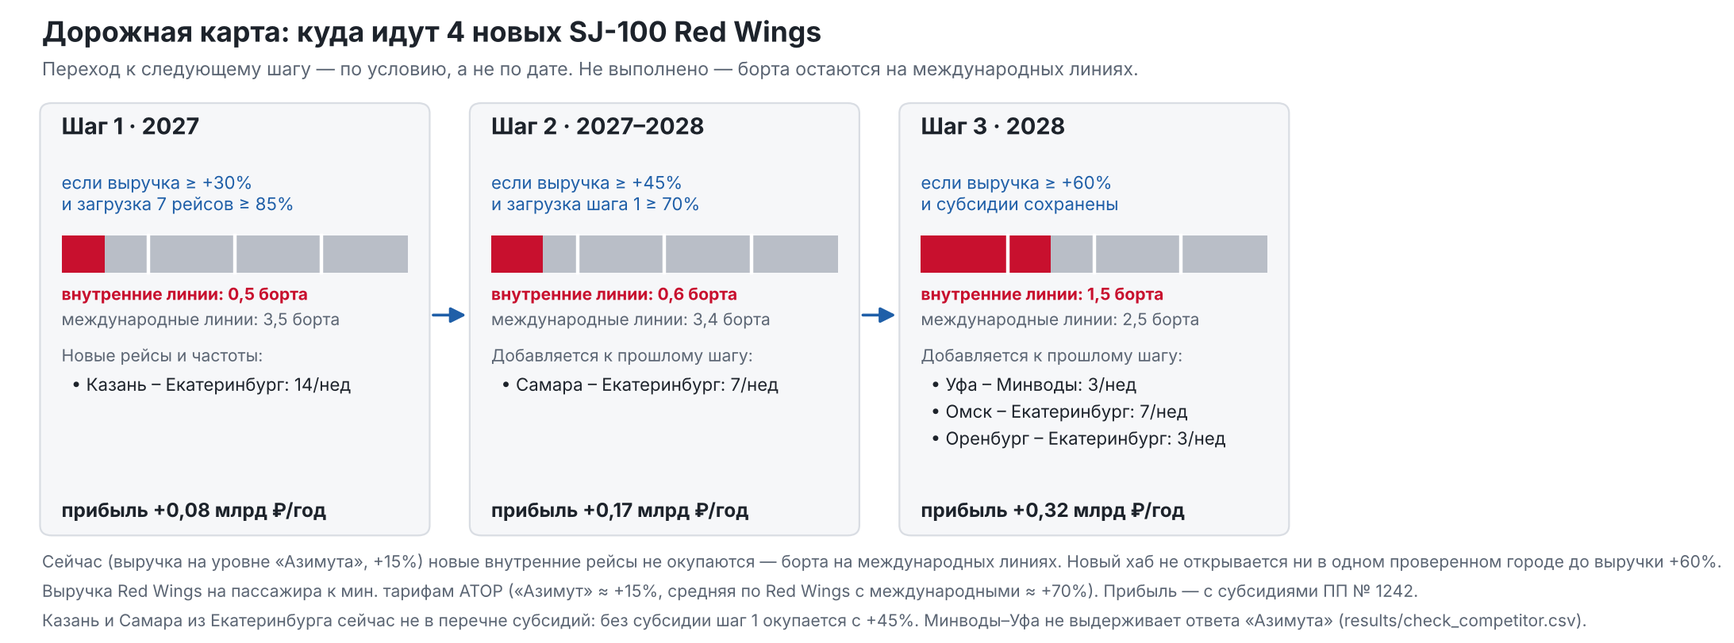
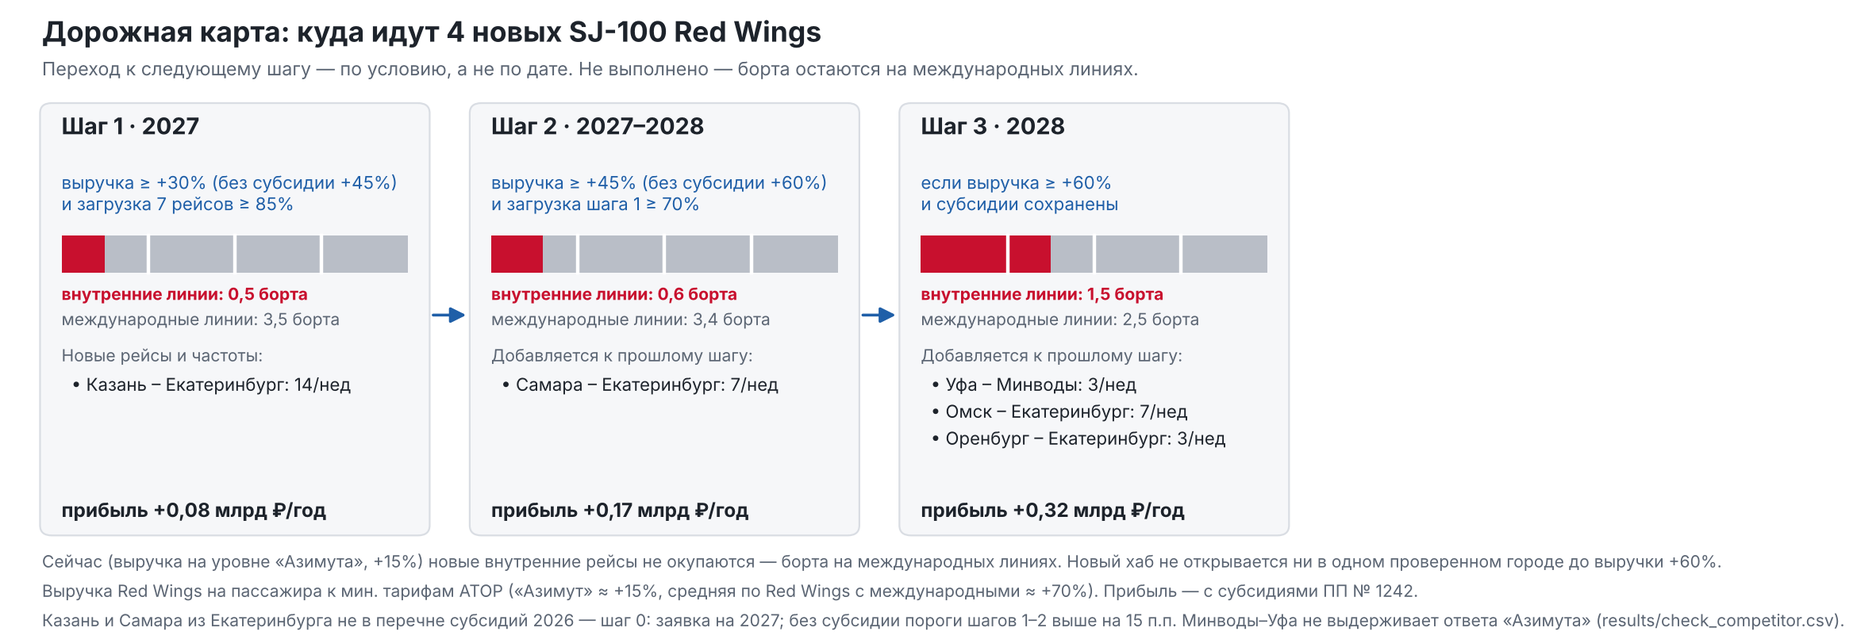
docs: пороги шагов 1 и 2 с субсидией и без, заявка в перечень субсидий в шаге 0

diff --git a/model/step8_roadmap.py b/model/step8_roadmap.py
@@ -49,8 +49,8 @@ def main():
     d = t[t["гипотеза"] == MODE].set_index("значение")
     hub = P["hub_names"][HUB]
     steps = [
-        ("Шаг 1 · 2027", "если выручка ≥ +30%\nи загрузка 7 рейсов ≥ 85%", 1.3),
-        ("Шаг 2 · 2027–2028", "если выручка ≥ +45%\nи загрузка шага 1 ≥ 70%", 1.45),
+        ("Шаг 1 · 2027", "выручка ≥ +30% (без субсидии +45%)\nи загрузка 7 рейсов ≥ 85%", 1.3),
+        ("Шаг 2 · 2027–2028", "выручка ≥ +45% (без субсидии +60%)\nи загрузка шага 1 ≥ 70%", 1.45),
         ("Шаг 3 · 2028", "если выручка ≥ +60%\nи субсидии сохранены", 1.6),
     ]
     fig, ax = plt.subplots(figsize=(13, 6.2), dpi=160)
@@ -92,7 +92,7 @@ def main():
             fontsize=9.5, color=MUTED)
     ax.text(0.3, 0.25, "Выручка Red Wings на пассажира к мин. тарифам АТОР («Азимут» ≈ +15%, средняя по Red Wings с международными ≈ +70%). "
             "Прибыль — с субсидиями ПП № 1242.", fontsize=9.5, color=MUTED)
-    ax.text(0.3, -0.1, "Казань и Самара из Екатеринбурга сейчас не в перечне субсидий: без субсидии шаг 1 окупается с +45%. "
+    ax.text(0.3, -0.1, "Казань и Самара из Екатеринбурга не в перечне субсидий 2026 — шаг 0: заявка на 2027; без субсидии пороги шагов 1–2 выше на 15 п.п. "
             "Минводы–Уфа не выдерживает ответа «Азимута» (results/check_competitor.csv).", fontsize=9.5, color=MUTED)
     out = RESULTS / "roadmap.png"
     fig.savefig(out, bbox_inches="tight", facecolor="white"); plt.close(fig)

diff --git a/model/explain_routes.py b/model/explain_routes.py
@@ -16,8 +16,8 @@ import step2_choice as ch
 import step3_scenarios as sc
 
 N = P["new_aircraft"]["базовый"]
-STEPS = [(1.3, "Шаг 1", "выручка от +30% к минимальным тарифам и фактическая загрузка нынешних рейсов от 85%"),
-         (1.45, "Шаг 2", "выручка от +45% и загрузка шага 1 от 70% два сезона"),
+STEPS = [(1.3, "Шаг 1", "выручка от +30% к минимальным тарифам (без субсидии от +45%) и фактическая загрузка нынешних рейсов от 85%"),
+         (1.45, "Шаг 2", "выручка от +45% (без субсидии от +60%) и загрузка шага 1 от 70% два сезона"),
          (1.6, "Шаг 3", "выручка от +60% и субсидии сохранены")]
 CARRIERS = {"WZ": "Red Wings", "UT": "Utair", "A4": "Азимут", "S7": "S7", "U6": "Уральские", "DP": "Победа",
             "FV": "Россия", "SU": "Аэрофлот", "N4": "Nordwind", "RT": "ЮВТ Аэро", "YC": "Ямал", "Y7": "NordStar",

diff --git a/docs/passport_final.md b/docs/passport_final.md
@@ -140,12 +140,12 @@
 **Связка с сетью:** сервисы → +1,5…3 тыс. ₽ с пассажира → выручка с +15% до +30…45% к минимальным тарифам → открываются шаги 1 и 2 дорожной карты → растут сеть и доля в сегменте. **Ограничение:** какая доля пассажиров покупает допуслуги, Red Wings не публикует, поэтому эффект в рублях — оценка масштаба, а не расчёт.
 
 ## 8. Ограничения
-Спрос по парам — оценка (бронирований нет); поправка ×0,3 откалибрована на трёх случаях и после изменения тарифа стала слабее (тем рейсам модель даёт загрузку 82%, 87% и 38%) — целевая сеть от неё не зависит, она стоит на парах с рейсами; тариф коротких рейсов — ступенька на 550 км; реальные цены — один срез ноября, минимальные, а не средние; **+45% к минимальным тарифам — требовательное условие**; при +60% состав сети неустойчив; выручка и стоимость часа — оценки по РСБУ; число поставок SJ-100 не объявлено; ответ конкурентов проверен тремя грубыми сценариями, а не смоделирован; рост спроса от нового рейса не моделируем.
+Спрос по парам — оценка (бронирований нет); субсидию модель даёт всем рейсам до 1500 км на 30 недель, а в перечне 2026 года есть только Омск и Оренбург из Екатеринбурга, поэтому для шагов 1 и 2 указаны два порога; число субсидируемых рейсов на маршруте ограничено перечнем, и при удвоении частоты субсидию могут получить не все рейсы; поправка ×0,3 откалибрована на трёх случаях и после изменения тарифа стала слабее (тем рейсам модель даёт загрузку 82%, 87% и 38%) — целевая сеть от неё не зависит, она стоит на парах с рейсами; тариф коротких рейсов — ступенька на 550 км; реальные цены — один срез ноября, минимальные, а не средние; **+45% к минимальным тарифам — требовательное условие**; при +60% состав сети неустойчив; выручка и стоимость часа — оценки по РСБУ; число поставок SJ-100 не объявлено; ответ конкурентов проверен тремя грубыми сценариями, а не смоделирован; рост спроса от нового рейса не моделируем.
 
 ## 9. Дорожная карта (по условиям, а не по датам)
-**Шаг 0. Сейчас — 2027:** получить фактическую выручку и бронирования Red Wings; пока выручка на уровне «Азимута» — новые борта на международных линиях.
-**Шаг 1. Выручка ≥ +30% и фактическая загрузка нынешних 7 рейсов от 85%:** Казань–Екатеринбург до 14 (0,5 борта). Загрузку проверяет Red Wings: модель считает рейсы переполненными, а по ценам на 12.11.2026 они заполняются к вылету, но за неделю и дальше свободные места есть почти всегда (`research/kzn_svx_price_calendar.md`). Маршрута нет в перечне субсидий 2026 года: без субсидии порог — +45%.
-**Шаг 2. Выручка ≥ +45%, загрузка шага 1 ≥ 70% два сезона** (по модели безубыточность Казань–Екатеринбург — 66% при +30% с субсидией и 75% без неё; прогноз модели — 77%)**:** + Самара–Екатеринбург до 7 (0,6 борта).
+**Шаг 0. Сейчас — 2027:** получить фактическую выручку и бронирования Red Wings; **подать заявку на включение Казань–Екатеринбург и Самара–Екатеринбург в перечень субсидий ПП № 1242 на 2027 год** (сейчас их там нет; маршруты межрегиональные, в обход Москвы, короче 1500 км) — субсидия снижает порог шагов 1 и 2 на 15 п.п.; пока выручка на уровне «Азимута» — новые борта на международных линиях.
+**Шаг 1. Выручка ≥ +30% с субсидией или ≥ +45% без неё, и фактическая загрузка нынешних 7 рейсов от 85%:** Казань–Екатеринбург до 14 (0,5 борта). Загрузку проверяет Red Wings: модель считает рейсы переполненными, а по ценам на 12.11.2026 они заполняются к вылету, но за неделю и дальше свободные места есть почти всегда (`research/kzn_svx_price_calendar.md`).
+**Шаг 2. Выручка ≥ +45% с субсидией или ≥ +60% без неё, загрузка шага 1 ≥ 70% два сезона** (по модели безубыточность Казань–Екатеринбург — 66% при +30% с субсидией и 75% без неё; прогноз модели — 77%)**:** + Самара–Екатеринбург до 7 (0,6 борта).
 **Шаг 3. Выручка ≥ +60%, субсидии сохранены:** Омск до 7, Оренбург до 3 (1,5 борта); Уфа–Минводы — только если «Азимут» не отвечает.
 **Параллельно — сервисы:** 2026–2027 — приложение и продажа пакетов (готовят шаг 1); вместе с шагом 1 — пересадки через Кольцово и корпоративные продажи; вместе с шагом 2 — программа лояльности.
 **Новый хаб не открываем:** ни один проверенный город не окупается до +60%. Условие не выполнено — борта остаются там, где зарабатывают больше: решение обратимо.

diff --git a/docs/passport_short.md b/docs/passport_short.md
@@ -40,12 +40,12 @@
 **Целевая сеть 2028** (приложение 2, выручка +60%): Казань–Екатеринбург 7 → 14 рейсов в неделю, Омск 2 → 7, Самара 6,5 → 7, Оренбург 2 → 3 и 16 действующих маршрутов Red Wings; новый Уфа–Минводы (3 в неделю) — только если «Азимут» не ответит.
 
 ## 6. Ограничения
-Спрос по парам — оценка (бронирований нет); поправка ×0,3 откалибрована на трёх случаях и после изменения тарифа стала слабее (тем рейсам модель даёт загрузку 82%, 87% и 38%) — целевая сеть от неё не зависит, она стоит на парах с рейсами; тариф коротких рейсов — ступенька на 550 км; реальные цены — один срез ноября, минимальные, а не средние; **+45% к минимальным тарифам — требовательное условие**; при +60% состав сети неустойчив; выручка и стоимость часа — оценки по РСБУ; число поставок SJ-100 не объявлено; ответ конкурентов проверен тремя грубыми сценариями, а не смоделирован; рост спроса от нового рейса не моделируем.
+Спрос по парам — оценка (бронирований нет); субсидию модель даёт всем рейсам до 1500 км на 30 недель, а в перечне 2026 года есть только Омск и Оренбург из Екатеринбурга, поэтому для шагов 1 и 2 указаны два порога; число субсидируемых рейсов на маршруте ограничено перечнем, и при удвоении частоты субсидию могут получить не все рейсы; поправка ×0,3 откалибрована на трёх случаях и после изменения тарифа стала слабее (тем рейсам модель даёт загрузку 82%, 87% и 38%) — целевая сеть от неё не зависит, она стоит на парах с рейсами; тариф коротких рейсов — ступенька на 550 км; реальные цены — один срез ноября, минимальные, а не средние; **+45% к минимальным тарифам — требовательное условие**; при +60% состав сети неустойчив; выручка и стоимость часа — оценки по РСБУ; число поставок SJ-100 не объявлено; ответ конкурентов проверен тремя грубыми сценариями, а не смоделирован; рост спроса от нового рейса не моделируем.
 
 ## 7. Дорожная карта (по условиям; картинка — приложение 2)
-**Шаг 0. Сейчас — 2027:** получить фактическую выручку и бронирования Red Wings; пока выручка на уровне «Азимута» — новые борта на международных линиях.
-**Шаг 1. Выручка ≥ +30% и фактическая загрузка нынешних 7 рейсов от 85%:** Казань–Екатеринбург до 14 (0,5 борта). Загрузку проверяет Red Wings: модель считает рейсы переполненными, а по ценам на 12.11.2026 они заполняются к вылету, но за неделю и дальше свободные места есть почти всегда (`research/kzn_svx_price_calendar.md`). Маршрута нет в перечне субсидий 2026 года: без субсидии порог — +45%.
-**Шаг 2. Выручка ≥ +45%, загрузка шага 1 ≥ 70% два сезона** (по модели безубыточность Казань–Екатеринбург — 66% при +30% с субсидией и 75% без неё; прогноз модели — 77%)**:** + Самара–Екатеринбург до 7 (0,6 борта).
+**Шаг 0. Сейчас — 2027:** получить фактическую выручку и бронирования Red Wings; **подать заявку на включение Казань–Екатеринбург и Самара–Екатеринбург в перечень субсидий ПП № 1242 на 2027 год** (сейчас их там нет; маршруты межрегиональные, в обход Москвы, короче 1500 км) — субсидия снижает порог шагов 1 и 2 на 15 п.п.; пока выручка на уровне «Азимута» — новые борта на международных линиях.
+**Шаг 1. Выручка ≥ +30% с субсидией или ≥ +45% без неё, и фактическая загрузка нынешних 7 рейсов от 85%:** Казань–Екатеринбург до 14 (0,5 борта). Загрузку проверяет Red Wings: модель считает рейсы переполненными, а по ценам на 12.11.2026 они заполняются к вылету, но за неделю и дальше свободные места есть почти всегда (`research/kzn_svx_price_calendar.md`).
+**Шаг 2. Выручка ≥ +45% с субсидией или ≥ +60% без неё, загрузка шага 1 ≥ 70% два сезона** (по модели безубыточность Казань–Екатеринбург — 66% при +30% с субсидией и 75% без неё; прогноз модели — 77%)**:** + Самара–Екатеринбург до 7 (0,6 борта).
 **Шаг 3. Выручка ≥ +60%, субсидии сохранены:** Омск до 7, Оренбург до 3 (1,5 борта); Уфа–Минводы — только если «Азимут» не отвечает.
 **Параллельно — сервисы:** 2026–2027 — приложение и продажа пакетов; с шагом 1 — пересадки через Кольцово и корпоративные продажи; с шагом 2 — программа лояльности.
 **Новый хаб не открываем:** ни один проверенный город не окупается до +60%. Условие не выполнено — борта остаются там, где зарабатывают больше: решение обратимо.

diff --git a/results/route_cards.md b/results/route_cards.md
@@ -3,7 +3,7 @@
 _Файл собирается автоматически: `python model/explain_routes.py`. Прямые рейсы, 4 новых борта, базовый сценарий._
 
 ## Шаг 1. Казань – Екатеринбург: 7 → 14 рейсов в неделю
-**Условие:** выручка от +30% к минимальным тарифам и фактическая загрузка нынешних рейсов от 85%. **Субсидия 2026:** нет — без неё порог выше.
+**Условие:** выручка от +30% к минимальным тарифам (без субсидии от +45%) и фактическая загрузка нынешних рейсов от 85%. **Субсидия 2026:** нет — без неё порог выше.
 
 **Почему:**
 - спрос между городами — около 113 тыс. поездок в год (все виды транспорта)
@@ -17,7 +17,7 @@ _Файл собирается автоматически: `python model/explain
 - конкурентов нет; риск — вход нового перевозчика
 
 ## Шаг 2. Самара – Екатеринбург: 6.5 → 7 рейсов в неделю
-**Условие:** выручка от +45% и загрузка шага 1 от 70% два сезона. **Субсидия 2026:** нет — без неё порог выше.
+**Условие:** выручка от +45% (без субсидии от +60%) и загрузка шага 1 от 70% два сезона. **Субсидия 2026:** нет — без неё порог выше.
 
 **Почему:**
 - спрос между городами — около 87 тыс. поездок в год (все виды транспорта)

diff --git a/docs/presentation_brief.md b/docs/presentation_brief.md
@@ -31,9 +31,9 @@
 **Картинка:** `results/roadmap.png`
 | Шаг | Условие | Что делаем | Прибыль в год |
 |---|---|---|---|
-| 0, сейчас | выручка на уровне «Азимута» | борта на международных линиях, собираем данные | 0 |
-| 1 | выручка от +30% и загрузка нынешних 7 рейсов от 85% | Казань–Екатеринбург 7 → 14 рейсов в неделю (Red Wings единственный перевозчик) | +0,08 млрд ₽ |
-| 2 | от +45%, загрузка шага 1 от 70% | + Самара–Екатеринбург до 7 | +0,17 млрд ₽ |
+| 0, сейчас | выручка на уровне «Азимута» | борта на международных линиях; собираем данные; заявка на включение Казани и Самары из Екатеринбурга в перечень субсидий 2027 | 0 |
+| 1 | выручка от +30% с субсидией (от +45% без неё) и загрузка нынешних 7 рейсов от 85% | Казань–Екатеринбург 7 → 14 рейсов в неделю (Red Wings единственный перевозчик) | +0,08 млрд ₽ |
+| 2 | от +45% с субсидией (от +60% без неё), загрузка шага 1 от 70% | + Самара–Екатеринбург до 7 | +0,17 млрд ₽ |
 | 3 | от +60%, субсидии сохранены | + Омск до 7, Оренбург до 3 | +0,32 млрд ₽, 1,5 борта |
 
 ## Слайд 6. Цифровые сервисы
